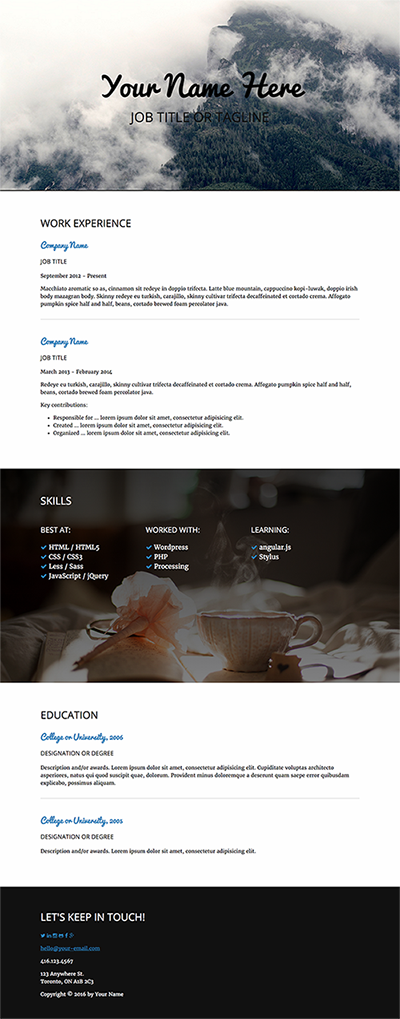
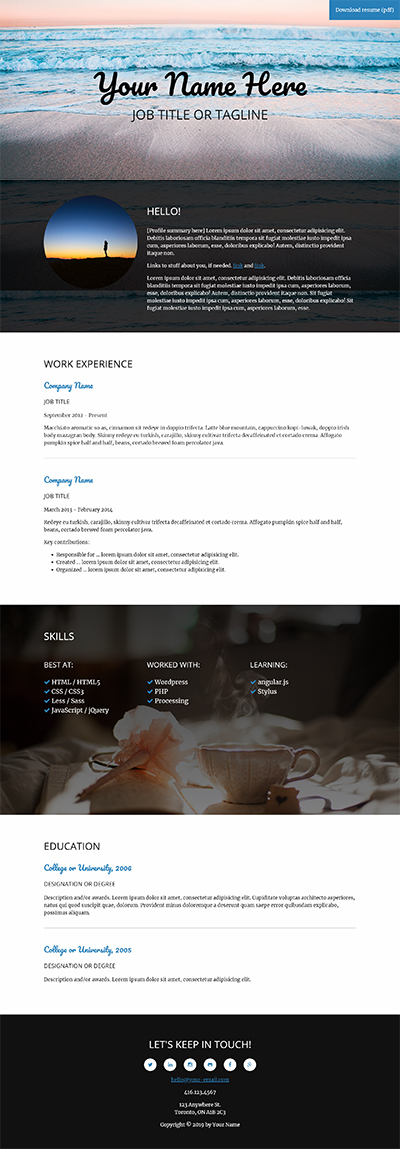
Updating copyright year in project footer, changing background header image option to allow better contrast, adding some diagrams for illustrative purposes, bolding text in slides, adding references for flexbox slides

diff --git a/slides.html b/slides.html
@@ -111,28 +111,17 @@
       </script>
     </section>
 
-    <section class="slide centered" data-markdown>
-      <script type="text/template">
-      #A demonstration of what can be <br>accomplished through CSS-based design
-
-      ![](framework/img/workshop/css-zen-garden.png)
-
-      http://csszengarden.com/
-      </script>
-    </section>
-
-
     <section class="slide" data-markdown data-toc>
       <script type="text/template">
       #The Development Environment
 
       ##[Atom](https://atom.io/)
 
-      Use a text editor with colour highlighting and other useful features. If you are unable to install Atom, try [Notepad++](http://notepad-plus-plus.org/) (Windows) or [Brackets](http://brackets.io/).
+      Use a **text editor** with colour highlighting and other useful features. If you are unable to install Atom, try [Notepad++](http://notepad-plus-plus.org/) (Windows) or [Brackets](http://brackets.io/).
 
       ##[Google Chrome](https://www.google.com/intl/en-CA/chrome/browser/)
 
-      Choose a modern web browser that supports current web standards and has good development tools.
+      Choose a modern **web browser** that supports current web standards and has good development tools.
 
       ---
       To set Chrome as your default browser, follow<!-- .element: class="note" --> [these instructions](https://support.google.com/chrome/answer/95417?hl=en).
@@ -179,6 +168,7 @@
         For Windows Users, go to the **File** menu and choose Settings.
 
         ![](framework/img/workshop/atom-preferences.jpg)<!-- .element: width="70%" -->
+        ![](framework/img/workshop/atom-settings-pc.jpg)<!-- .element: width="20%" -->
 
         Select the **Editor** tab in the left menu
 
@@ -313,7 +303,7 @@
       **Title**
 
       * found in the `<head>` section of the HTML document
-      * used for defining the page title.
+      * used for defining the page title
       * displays in the browser's tab, search engine results and bookmarks
       * keep it short and descriptive
 
@@ -359,7 +349,7 @@
       **Images**: also requires an additional attribute, `src`, which defines the path to an image file.
 
       ```
-      <img src="folder/image.jpg">
+      <img src="folder/image.jpg" alt="description of image">
       ```
       </script>
     </section>
@@ -732,7 +722,7 @@
 
         There are some free options like [Google Fonts](https://www.google.com/fonts) or [Font Squirrel](http://www.fontsquirrel.com/fonts/list/hot_web).
 
-        Google fonts provides a more straightforward option since you can link directly to their css files.  Let's take a look at how it works.
+        Google fonts provides a more straightforward option since you can link directly to their CSS files.  Let's take a look at how it works.
       </script>
     </section>
 
@@ -778,7 +768,7 @@
         <textarea class="snippet" data-subject="#typography-example">font-weight: bold;
 font-size: 16px;
 line-height: 1.25;
-font-family: Helvetica, Arial, serif;
+font-family: Helvetica, Arial, sans-serif;
 text-transform: lowercase;
 color: blue;</textarea>
 
@@ -986,6 +976,8 @@ color: blue;</textarea>
       The browser looks at every HTML element on the page as a rectangular or square box. The CSS Box Model describes the way CSS styles the size and spacing of HTML elements.
 
       There are 5 CSS properties used to determine the size and spacing of these boxes: `margin`, `padding`, `border`, `width`, `height`.
+
+      ![](framework/img/workshop/box-model-layout.jpg)
       </script>
     </section>
 
@@ -1288,6 +1280,11 @@ max-width: 800px;</textarea>
       ```css
       background: url(folder/file.jpg); /* shorthand */
       ```
+
+      ---
+        ###Resources
+        * W3C: [CSS Background properties](https://www.w3schools.com/css/css_background.asp)
+        * Moz: [CSS Shorthand properties](https://developer.mozilla.org/en-US/docs/Web/CSS/Shorthand_properties)
     </script>
   </section>
 
@@ -1671,7 +1668,7 @@ Here is some sample code for reference or view <!-- .element: class="note" -->[8
 
       Once we have a flex parent, we can easily change the orientation, alignment, and position of any child elements.
 
-      We'll be using this approach to style the profile and skills sections of our resume.
+      We'll be using this approach to style the Profile and Skills sections of our resume.
     </section>
 
     <section class="slide">
@@ -1684,7 +1681,6 @@ Here is some sample code for reference or view <!-- .element: class="note" -->[8
       <textarea class="snippet" data-subject="#flexbox">
 #flexbox {
   display: ;
-  justify-content: ;
   align-items: ;
 }
 
@@ -1697,8 +1693,16 @@ Here is some sample code for reference or view <!-- .element: class="note" -->[8
 }</textarea>
       <div id="flexbox" style="min-height: 330px; background: rgba( 0, 0, 0, 0.05 ); border: solid 1px #999; padding: 15px;">
         <img src="http://placehold.it/300x300" alt="placeholder image">
-        <p>Lorem ipsum dolor sit amet, consectetur adipisicing elit, sed do eiusmod tempor incididunt ut labore et dolore magna ali</p>
+        <p>Lorem ipsum dolor sit amet, consectetur adipisicing elit, sed do eiusmod tempor incididunt ut labore et dolore magna ali. Lorem ipsum dolor sit amet, consectetur adipisicing elit, sed do eiusmod tempor incididunt ut labore et dolore magna ali. Lorem ipsum dolor sit amet, consectetur adipisicing elit, sed do eiusmod tempor incididunt ut labore et dolore magna ali. Lorem ipsum dolor sit amet, consectetur adipisicing elit, sed do eiusmod tempor incididunt ut labore et dolore magna ali. Lorem ipsum dolor sit amet, consectetur adipisicing elit, sed do eiusmod tempor incididunt ut labore et dolore magna ali. Lorem ipsum dolor sit amet, consectetur adipisicing elit, sed do eiusmod tempor incididunt ut labore et dolore magna ali.</p>
       </div>
+
+
+      <hr>
+      <h3 class="resources">Resource</h3>
+      <ul>
+        <li><a href="https://developer.mozilla.org/en-US/docs/Web/CSS/align-items">align-items values</a></li>
+      </ul>
+
     </section>
 
     <section class="slide">
@@ -1709,9 +1713,9 @@ Here is some sample code for reference or view <!-- .element: class="note" -->[8
       <p>Lets see if we can:</p>
 
       <ul>
-          <li>increase their width;</li>
-          <li>space them evenly;</li>
-          <li>prevent them from being stretched vertically.</li>
+          <li>space them evenly</li>
+          <li>prevent them from being stretched vertically</li>
+          <li>increase their width</li>
       </ul>
 
       <textarea class="snippet" data-subject="#flexbox_multi">
@@ -1732,6 +1736,15 @@ Here is some sample code for reference or view <!-- .element: class="note" -->[8
         <div>Element 2</div>
         <div>Element 3</div>
       </div>
+
+      <hr>
+      <h3 class="resources">Resource</h3>
+      <ul>
+        <li><a href="https://developer.mozilla.org/en-US/docs/Web/CSS/justify-content">justify-content values</a></li>
+        <li><a href="https://developer.mozilla.org/en-US/docs/Web/CSS/align-items">align-items values</a></li>
+        <li><a href="https://developer.mozilla.org/en-US/docs/Web/CSS/flex-basis">flex-basis values</a></li>
+      </ul>
+
     </section>
 
     <section class="slide" data-markdown>

diff --git a/project/examples/10-position.html b/project/examples/10-position.html
@@ -154,7 +154,7 @@
 				<p>123 Anywhere St.<br>
 				 Toronto, ON A1B 2C3</p>
 
-				<p class="copyright">Copyright &#169; 2016 by Your Name</p>
+				<p class="copyright">Copyright &copy; 2019 by Your Name</p>
 			</div>
 		</footer>
 	</body>

diff --git a/project/examples/4-content-wrap.html b/project/examples/4-content-wrap.html
@@ -152,7 +152,7 @@
 				<p>123 Anywhere St.<br>
 				 Toronto, ON A1B 2C3</p>
 
-				<p class="copyright">Copyright &#169; 2016 by Your Name</p>
+				<p class="copyright">Copyright &copy; 2019 by Your Name</p>
 			</div>
 		</footer>
 	</body>

diff --git a/project/examples/5-fluid-content-wrap.html b/project/examples/5-fluid-content-wrap.html
@@ -152,7 +152,7 @@
 				<p>123 Anywhere St.<br>
 				 Toronto, ON A1B 2C3</p>
 
-				<p class="copyright">Copyright &#169; 2016 by Your Name</p>
+				<p class="copyright">Copyright &copy; 2019 by Your Name</p>
 			</div>
 		</footer>
 	</body>

diff --git a/project/examples/6-background.html b/project/examples/6-background.html
@@ -152,7 +152,7 @@
 				<p>123 Anywhere St.<br>
 				 Toronto, ON A1B 2C3</p>
 
-				<p class="copyright">Copyright &#169; 2016 by Your Name</p>
+				<p class="copyright">Copyright &copy; 2019 by Your Name</p>
 			</div>
 		</footer>
 	</body>

diff --git a/project/examples/7-more-background.html b/project/examples/7-more-background.html
@@ -152,7 +152,7 @@
 				<p>123 Anywhere St.<br>
 				 Toronto, ON A1B 2C3</p>
 
-				<p class="copyright">Copyright &#169; 2016 by Your Name</p>
+				<p class="copyright">Copyright &copy; 2019 by Your Name</p>
 			</div>
 		</footer>
 	</body>

diff --git a/project/examples/8-gradients.html b/project/examples/8-gradients.html
@@ -152,7 +152,7 @@
 				<p>123 Anywhere St.<br>
 				 Toronto, ON A1B 2C3</p>
 
-				<p class="copyright">Copyright &#169; 2016 by Your Name</p>
+				<p class="copyright">Copyright &copy; 2019 by Your Name</p>
 			</div>
 		</footer>
 	</body>

diff --git a/project/examples/9-flexbox.html b/project/examples/9-flexbox.html
@@ -152,7 +152,7 @@
 				<p>123 Anywhere St.<br>
 				 Toronto, ON A1B 2C3</p>
 
-				<p class="copyright">Copyright &#169; 2016 by Your Name</p>
+				<p class="copyright">Copyright &copy; 2019 by Your Name</p>
 			</div>
 		</footer>
 	</body>

diff --git a/project/final.html b/project/final.html
@@ -154,7 +154,7 @@
 				<p>123 Anywhere St.<br>
 				 Toronto, ON A1B 2C3</p>
 
-				<p class="copyright">Copyright &#169; 2016 by Your Name</p>
+				<p class="copyright">Copyright &copy; 2019 by Your Name</p>
 			</div>
 		</footer>
 	</body>

diff --git a/project/examples/1-no-css.html b/project/examples/1-no-css.html
@@ -141,7 +141,7 @@
 			<p>123 Anywhere St.<br>
 			 Toronto, ON A1B 2C3</p>
 
-			<p class="copyright">Copyright &#169; 2016 by Your Name</p>
+			<p class="copyright">Copyright &copy; 2019 by Your Name</p>
 		</footer>
 	</body>
 </html>

diff --git a/project/examples/2-bg-colours.html b/project/examples/2-bg-colours.html
@@ -141,7 +141,7 @@
 			<p>123 Anywhere St.<br>
 			 Toronto, ON A1B 2C3</p>
 
-			<p class="copyright">Copyright &#169; 2016 by Your Name</p>
+			<p class="copyright">Copyright &copy; 2019 by Your Name</p>
 		</footer>
 	</body>
 </html>

diff --git a/project/examples/3-typography.html b/project/examples/3-typography.html
@@ -143,7 +143,7 @@
 			<p>123 Anywhere St.<br>
 			 Toronto, ON A1B 2C3</p>
 
-			<p class="copyright">Copyright &#169; 2016 by Your Name</p>
+			<p class="copyright">Copyright &copy; 2019 by Your Name</p>
 		</footer>
 	</body>
 </html>
